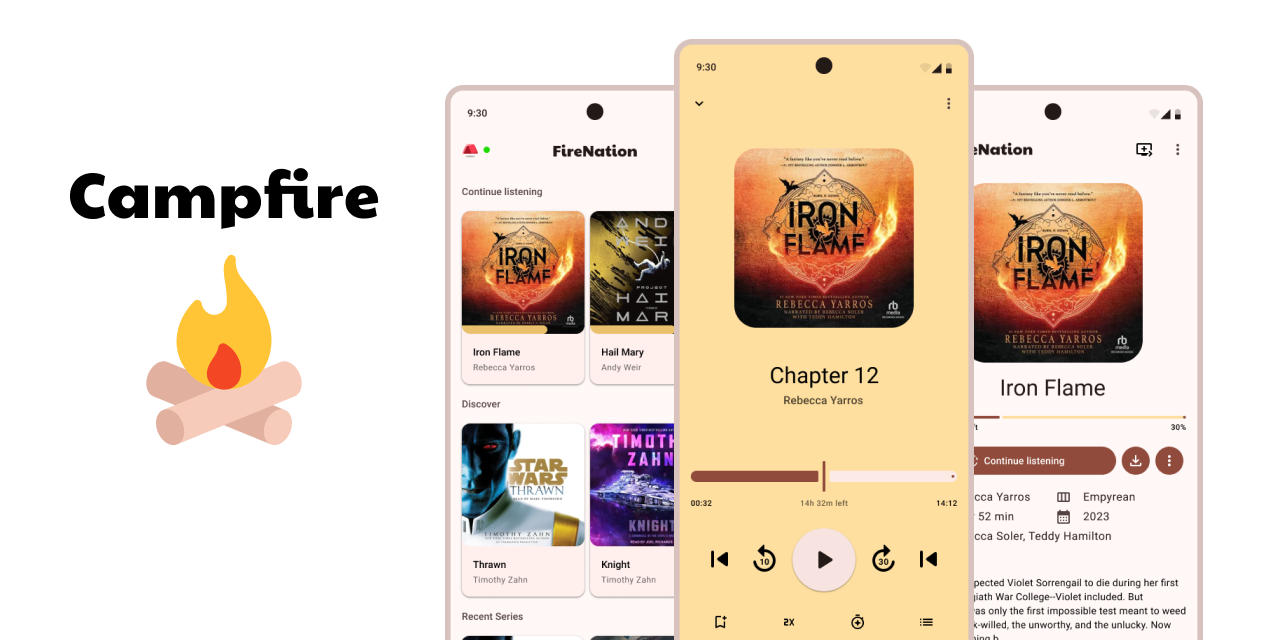
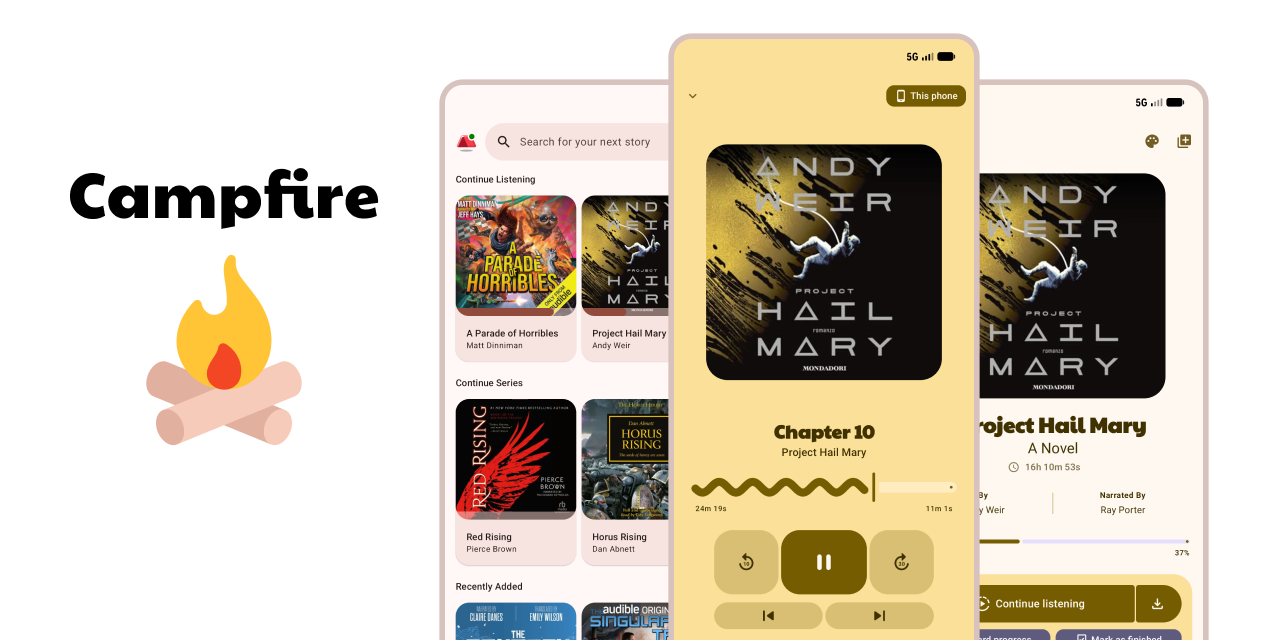
Cover image in the playback UI is now more responsive to the size and layouts

diff --git a/features/sessions/ui/src/commonMain/kotlin/app/campfire/sessions/ui/playback/expanded/SmallExpandedPlaybackBar.kt b/features/sessions/ui/src/commonMain/kotlin/app/campfire/sessions/ui/playback/expanded/SmallExpandedPlaybackBar.kt
@@ -20,6 +20,7 @@ import androidx.compose.foundation.layout.Column
 import androidx.compose.foundation.layout.Row
 import androidx.compose.foundation.layout.Spacer
 import androidx.compose.foundation.layout.WindowInsets
+import androidx.compose.foundation.layout.aspectRatio
 import androidx.compose.foundation.layout.fillMaxHeight
 import androidx.compose.foundation.layout.fillMaxSize
 import androidx.compose.foundation.layout.fillMaxWidth
@@ -58,6 +59,7 @@ import androidx.compose.ui.text.font.FontStyle
 import androidx.compose.ui.text.font.FontWeight
 import androidx.compose.ui.text.style.TextAlign
 import androidx.compose.ui.text.style.TextOverflow
+import androidx.compose.ui.unit.Dp
 import androidx.compose.ui.unit.dp
 import app.campfire.audioplayer.ui.cast.CastButton
 import app.campfire.common.compose.LocalWindowSizeClass
@@ -384,6 +386,7 @@ private fun SharedTransitionScope.SmallExpandedPlaybackContent(
       )
 
       ItemActions(
+        session = session,
         playerState = playerState,
         syncState = syncState,
         isInteracting = isInteracting,
@@ -427,21 +430,25 @@ private fun SharedTransitionScope.ItemMetadata(
       runningTimer = playerState.timer,
       session = session,
       animatedVisibilityScope = animatedVisibilityScope,
-      size = 180.dp,
+      size = Dp.Unspecified,
       shape = RoundedCornerShape(16.dp),
-      modifier = Modifier.clickable {
-        if (session == null) return@clickable
-        scope.launch {
-          onClose()
-          delay(350.milliseconds)
-          navigator.goTo(
-            LibraryItemScreen(
-              libraryItemId = session.libraryItem.id,
-              episodeId = session.episodeId,
-            ),
-          )
-        }
-      },
+      modifier = Modifier
+        .weight(1f)
+        .padding(horizontal = 16.dp)
+        .aspectRatio(1f)
+        .clickable {
+          if (session == null) return@clickable
+          scope.launch {
+            onClose()
+            delay(350.milliseconds)
+            navigator.goTo(
+              LibraryItemScreen(
+                libraryItemId = session.libraryItem.id,
+                episodeId = session.episodeId,
+              ),
+            )
+          }
+        },
     )
 
     Spacer(Modifier.height(16.dp))
@@ -484,12 +491,15 @@ private fun SharedTransitionScope.ItemMetadata(
           .padding(horizontal = 64.dp),
       )
     }
+
+    Spacer(Modifier.height(16.dp))
   }
 }
 
 @OptIn(ExperimentalMaterial3ExpressiveApi::class)
 @Composable
 private fun ItemActions(
+  session: Session?,
   playerState: PlayerUiState,
   syncState: SyncUiState,
   isInteracting: Boolean,
@@ -560,6 +570,11 @@ private fun ItemActions(
     )
 
     Spacer(Modifier.height(8.dp))
+
+    if (playerState.bookTimeEnabled && session?.episodeId == null) {
+      BookTimeProgressIndicator(session, playerState)
+      Spacer(Modifier.height(4.dp))
+    }
 
     PlaybackSeekBar(
       state = playerState.state,

diff --git a/features/sessions/ui/src/commonMain/kotlin/app/campfire/sessions/ui/playback/expanded/ExpandedPlaybackBar.kt b/features/sessions/ui/src/commonMain/kotlin/app/campfire/sessions/ui/playback/expanded/ExpandedPlaybackBar.kt
@@ -22,6 +22,7 @@ import androidx.compose.foundation.layout.ColumnScope
 import androidx.compose.foundation.layout.Row
 import androidx.compose.foundation.layout.Spacer
 import androidx.compose.foundation.layout.WindowInsets
+import androidx.compose.foundation.layout.aspectRatio
 import androidx.compose.foundation.layout.fillMaxSize
 import androidx.compose.foundation.layout.fillMaxWidth
 import androidx.compose.foundation.layout.height
@@ -64,6 +65,7 @@ import androidx.compose.ui.text.font.FontStyle
 import androidx.compose.ui.text.font.FontWeight
 import androidx.compose.ui.text.style.TextAlign
 import androidx.compose.ui.text.style.TextOverflow
+import androidx.compose.ui.unit.Dp
 import androidx.compose.ui.unit.dp
 import androidx.compose.ui.unit.sp
 import app.campfire.audioplayer.ui.cast.CastButton
@@ -397,24 +399,26 @@ private fun SharedTransitionScope.ExpandedPlaybackContent(
           runningTimer = playerState.timer,
           session = session,
           animatedVisibilityScope = animatedVisibilityScope,
-          size = if (windowSizeClass.isSupportingPaneEnabled) {
-            LargeCoverImageSize
-          } else {
-            CoverImageSize
-          },
-          modifier = Modifier.clickable {
-            if (session == null) return@clickable
-            scope.launch {
-              onClose()
-              delay(350.milliseconds)
-              navigator.goTo(
-                LibraryItemScreen(
-                  libraryItemId = session.libraryItem.id,
-                  episodeId = session.episodeId,
-                ),
-              )
-            }
-          },
+          size = Dp.Unspecified,
+          modifier = Modifier
+            .weight(1f)
+            .padding(
+              horizontal = 48.dp,
+            )
+            .aspectRatio(1f)
+            .clickable {
+              if (session == null) return@clickable
+              scope.launch {
+                onClose()
+                delay(350.milliseconds)
+                navigator.goTo(
+                  LibraryItemScreen(
+                    libraryItemId = session.libraryItem.id,
+                    episodeId = session.episodeId,
+                  ),
+                )
+              }
+            },
         )
 
         Spacer(Modifier.height(16.dp))
@@ -475,6 +479,8 @@ private fun SharedTransitionScope.ExpandedPlaybackContent(
               .padding(horizontal = 64.dp),
           )
         }
+
+        Spacer(Modifier.height(16.dp))
       }
 
       syncState.availableSync?.let { sync ->
@@ -649,7 +655,7 @@ private fun SharedTransitionScope.ExpandedPlaybackContent(
 }
 
 @Composable
-private fun ColumnScope.BookTimeProgressIndicator(
+internal fun ColumnScope.BookTimeProgressIndicator(
   session: Session?,
   playerState: PlayerUiState,
 ) {

diff --git a/common/compose/src/commonMain/kotlin/app/campfire/common/compose/widgets/CoverImage.kt b/common/compose/src/commonMain/kotlin/app/campfire/common/compose/widgets/CoverImage.kt
@@ -17,12 +17,14 @@ import androidx.compose.runtime.remember
 import androidx.compose.ui.Alignment
 import androidx.compose.ui.Modifier
 import androidx.compose.ui.draw.clip
+import androidx.compose.ui.geometry.Size
 import androidx.compose.ui.graphics.ImageBitmap
 import androidx.compose.ui.graphics.Shape
 import androidx.compose.ui.graphics.painter.Painter
 import androidx.compose.ui.layout.ContentScale
 import androidx.compose.ui.unit.Dp
 import androidx.compose.ui.unit.dp
+import app.campfire.core.extensions.fluentIf
 import app.campfire.core.model.Author
 import campfire.common.compose.generated.resources.Res
 import campfire.common.compose.generated.resources.placeholder_person
@@ -80,7 +82,9 @@ fun CoverImage(
       contentDescription = contentDescription,
       contentScale = contentScale,
       modifier = sharedElementModifier
-        .size(size)
+        .fluentIf(size != Dp.Unspecified) {
+          size(size)
+        }
         .clip(shape),
     )
 
@@ -134,7 +138,9 @@ private fun LoadingCover(
         color = MaterialTheme.colorScheme.primaryContainer,
         shape = shape,
       )
-      .size(size),
+      .fluentIf(size != Dp.Unspecified) {
+        size(size)
+      },
     contentAlignment = Alignment.Center,
   ) {
     CircularProgressIndicator(

diff --git a/features/sessions/ui/src/commonMain/kotlin/app/campfire/sessions/ui/playback/expanded/composables/ExpandedItemImage.kt b/features/sessions/ui/src/commonMain/kotlin/app/campfire/sessions/ui/playback/expanded/composables/ExpandedItemImage.kt
@@ -8,6 +8,7 @@ import androidx.compose.animation.expandIn
 import androidx.compose.animation.fadeIn
 import androidx.compose.foundation.background
 import androidx.compose.foundation.layout.Box
+import androidx.compose.foundation.layout.fillMaxSize
 import androidx.compose.foundation.layout.fillMaxWidth
 import androidx.compose.foundation.layout.padding
 import androidx.compose.foundation.layout.size
@@ -52,10 +53,13 @@ internal fun SharedTransitionScope.ExpandedItemImage(
       contentDescription = session?.libraryItem?.media?.metadata?.title,
       size = size,
       shape = shape,
-      modifier = Modifier.sharedElement(
-        rememberSharedContentState(SharedImage),
-        animatedVisibilityScope = animatedVisibilityScope,
-      ),
+      sharedElementModifier = Modifier.fillMaxSize(),
+      modifier = Modifier
+        .fillMaxSize()
+        .sharedElement(
+          rememberSharedContentState(SharedImage),
+          animatedVisibilityScope = animatedVisibilityScope,
+        ),
     )
 
     AnimatedVisibility(
